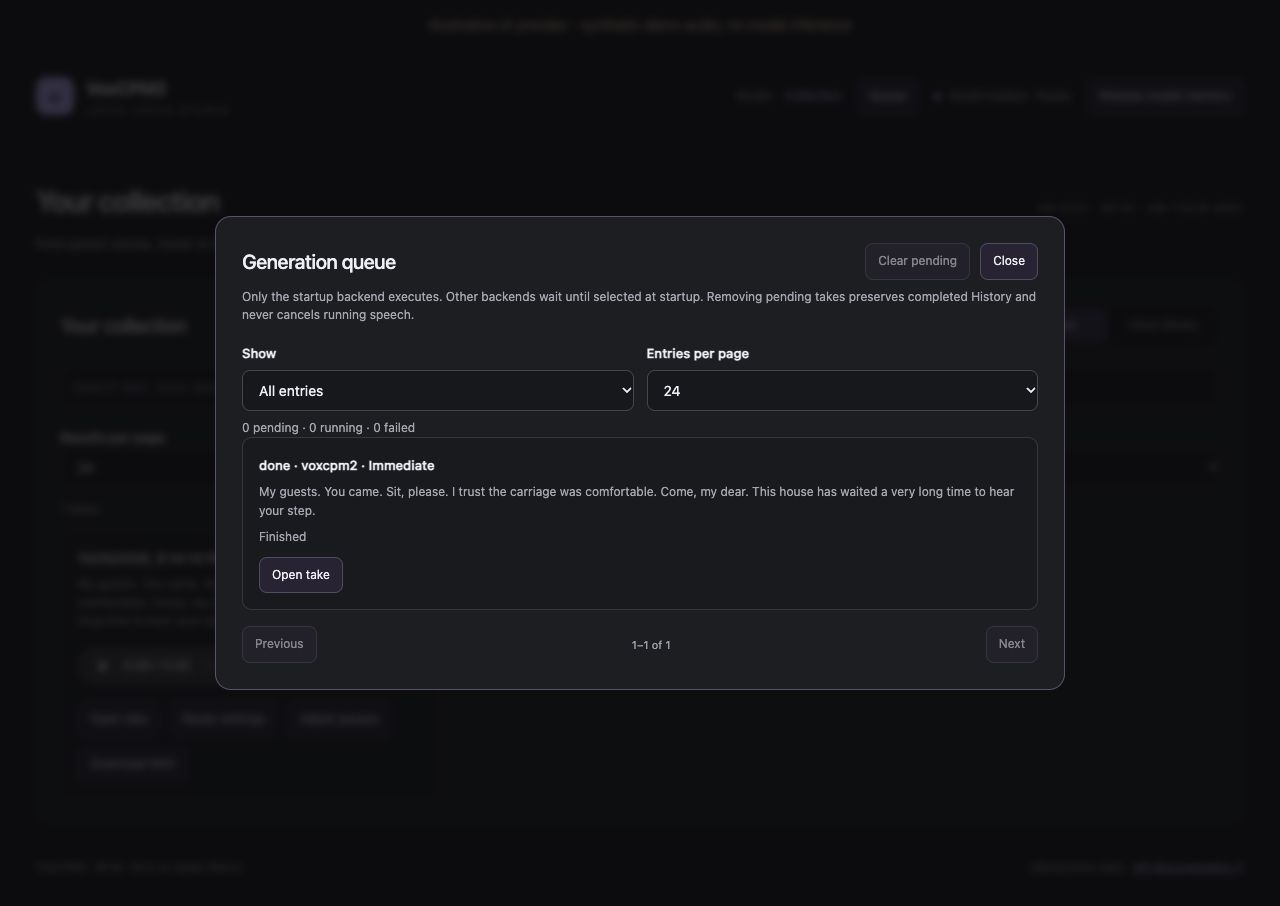
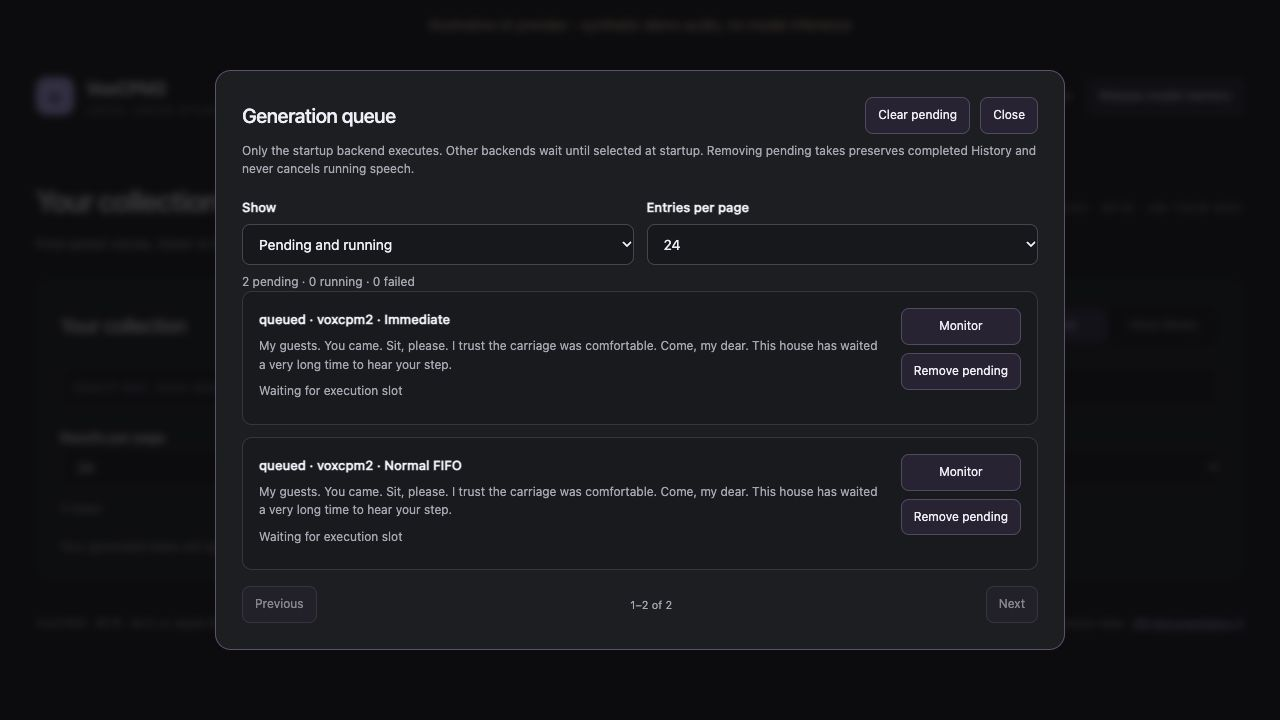
Stack queue entry actions vertically on the right

diff --git a/ui/app.js b/ui/app.js
@@ -308,15 +308,16 @@ async function refreshQueue(){
  $('queue-clear').disabled=!(page.counts.queued>0);$('queue-prev').disabled=queueOffset===0;$('queue-next').disabled=!page.has_more;
  $('queue-page').textContent=page.total?`${queueOffset+1}–${queueOffset+page.data.length} of ${page.total}`:'No matching entries';
  for(const row of page.data){
-  const card=el('article',null,'card');card.append(el('strong',`${row.status} · ${row.backend||'legacy'} · ${row.generate_immediately?'Immediate':'Normal FIFO'}`));
-  card.append(el('p',row.requested?.text||row.id),el('p',row.paused?'Paused until '+row.backend+' is selected at startup':row.stage,'hint'));
-  if(row.error)card.append(el('p',row.error,'error'));
-  const actions=el('div',null,'card-actions');
+  const card=el('article',null,'card queue-entry'),content=el('div',null,'queue-entry-content');
+  content.append(el('strong',`${row.status} · ${row.backend||'legacy'} · ${row.generate_immediately?'Immediate':'Normal FIFO'}`));
+  content.append(el('p',row.requested?.text||row.id),el('p',row.paused?'Paused until '+row.backend+' is selected at startup':row.stage,'hint'));
+  if(row.error)content.append(el('p',row.error,'error'));
+  const actions=el('div',null,'card-actions queue-actions');
   if(row.candidate_batch_id){const options=el('button','View all options','secondary');options.type='button';options.onclick=()=>{$('queue-dialog').close();watchCandidates(row.candidate_batch_id)};actions.append(options);}
   const inspect=el('button',row.status==='done'?'Open take':'Monitor','secondary');inspect.type='button';inspect.onclick=()=>{$('queue-dialog').close();row.result?showResult(row.result):watch(row.id)};actions.append(inspect);
   if(row.status==='queued'){const remove=el('button','Remove pending','secondary');remove.type='button';remove.onclick=async()=>{try{await api('/api/queue/'+row.id,{method:'DELETE'});await refreshQueue()}catch(exc){error(exc.message)}};actions.append(remove)}
   if(row.status==='error'&&!row.paused&&row.backend===caps?.backend){const retry=el('button','Retry same entry','secondary');retry.type='button';retry.onclick=async()=>{try{const job=await post('/api/queue/'+row.id+'/retry',{});$('queue-dialog').close();watch(job.id);await refreshQueue()}catch(exc){error(exc.message)}};actions.append(retry)}
-  card.append(actions);$('queue-entries').append(card);
+  card.append(content,actions);$('queue-entries').append(card);
  }
 }
 $('queue-clear').onclick=async()=>{try{const result=await api('/api/queue',{method:'DELETE'});announce(`Removed ${result.deleted} pending takes. Running speech continues.`);await refreshQueue()}catch(exc){error(exc.message)}};

diff --git a/ui/index.html b/ui/index.html
@@ -15,6 +15,10 @@ html[data-page="collection"] #voice-catalog{margin-top:0}
 html[data-page="collection"] #cards{max-height:none;grid-template-columns:repeat(auto-fill,minmax(320px,1fr))}
 .header-links a[aria-current="page"]{color:var(--accent)}
 .queue-dialog{width:min(850px,calc(100vw - 32px))}
+.queue-entry{display:grid;grid-template-columns:minmax(0,1fr) max-content;gap:16px;align-items:start}
+.queue-entry-content{min-width:0;overflow-wrap:anywhere}
+.queue-actions{margin:0;flex-direction:column;align-items:stretch;flex-wrap:nowrap}
+.queue-actions .secondary{width:100%;text-align:center;white-space:nowrap}
 .candidate-grid{display:grid;grid-template-columns:repeat(auto-fit,minmax(240px,1fr));gap:12px;margin:15px 0 22px}.candidate-grid .card[data-selected=true]{border-color:var(--accent)}#candidate-results{margin-top:20px}#candidate-results h2{font-size:18px}#candidate-summary{margin-bottom:10px}
 @media(max-width:720px){.header-links{display:flex}.top-actions{flex-wrap:wrap}.queue-dialog{padding:18px}html[data-page="collection"] #cards{grid-template-columns:1fr}}
 </style>

diff --git a/README.md b/README.md
@@ -24,9 +24,9 @@ Search History and Voice library, edit names/descriptions/tags, or use **Upload 
 
 ### Queue
 
-Open **Queue** from the header on either page. The modal lists jobs with status filters, paging, pending removal/clear and failed-job retry.
+Open **Queue** from the header on either page. The modal lists jobs with status filters, paging, pending removal/clear and failed-job retry. Each entry's action buttons are stacked vertically on the right.
 
-![Full page with the Queue modal showing a completed demo take](docs/images/queue-modal.jpg)
+![Full page with the Queue modal showing queued demo takes and Monitor/Remove actions stacked on the right](docs/images/queue-modal.jpg)
 
 ## Setup and storage
 
